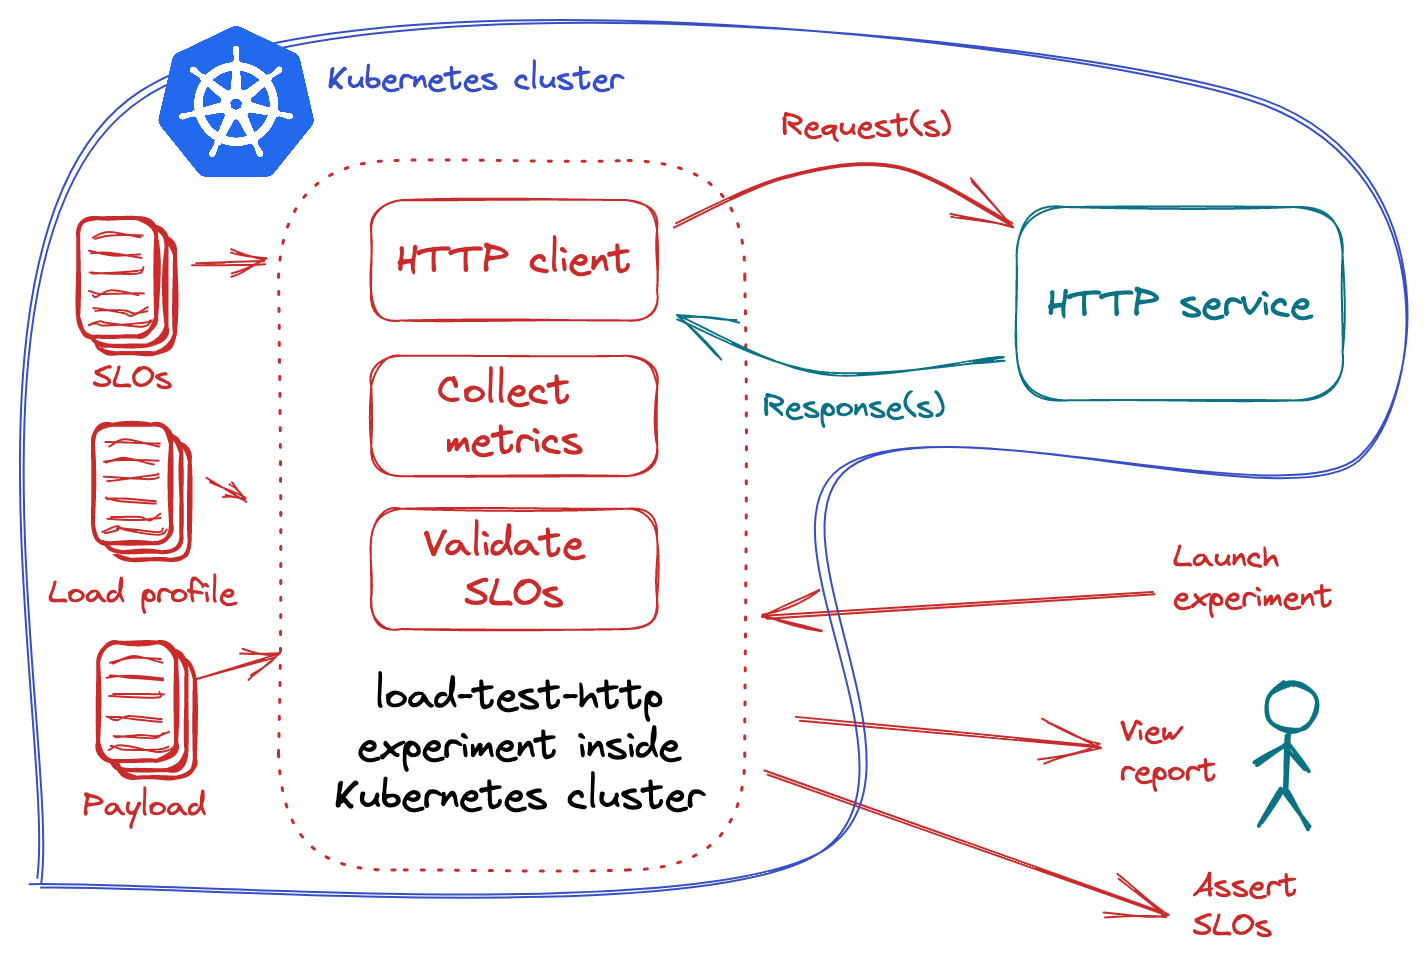
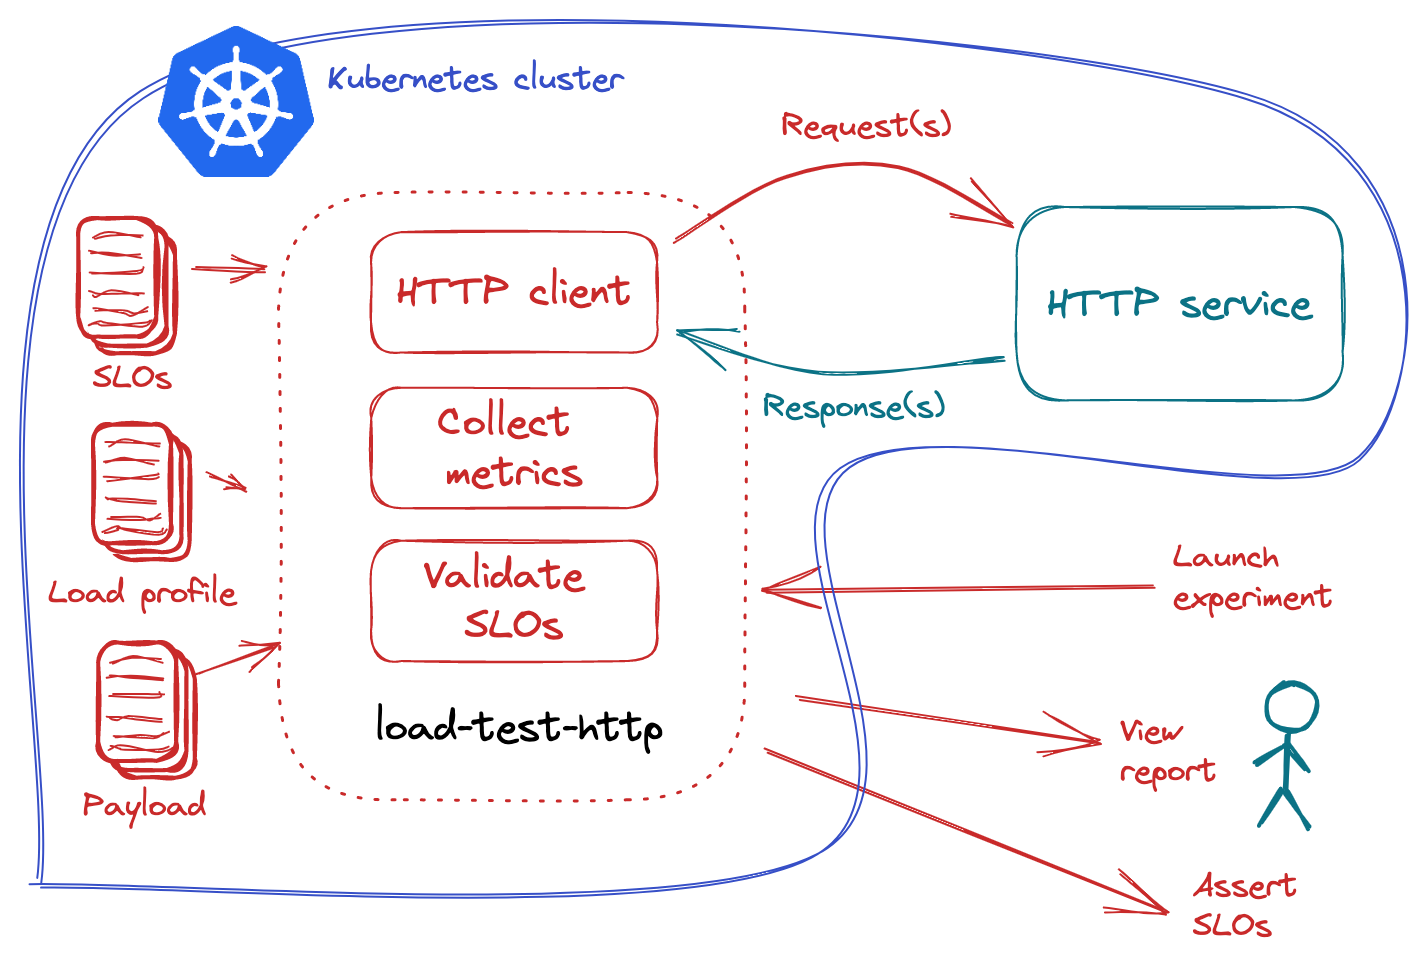
better pics

diff --git a/docs/tutorials/load-test-http/kubernetesusage.md b/docs/tutorials/load-test-http/kubernetesusage.md
@@ -4,7 +4,7 @@ template: main.html
 
 # Benchmark and Validate Kubernetes HTTP Services
 
-Load test, benchmark, and validate an HTTP service that is running within a Kubernetes cluster using the  [`load-test-http` experiment](basicusage.md). The HTTP service may be exposed outside the cluster or may be local.
+Benchmark, and validate an HTTP service inside a Kubernetes cluster using the  [`load-test-http` experiment](basicusage.md). The experiment is run inside the cluster. The HTTP service may be exposed or local to the cluster.
 
 <p align='center'>
   <img alt-text="load-test-http" src="../images/kubernetesusage.png" width="90%" />
